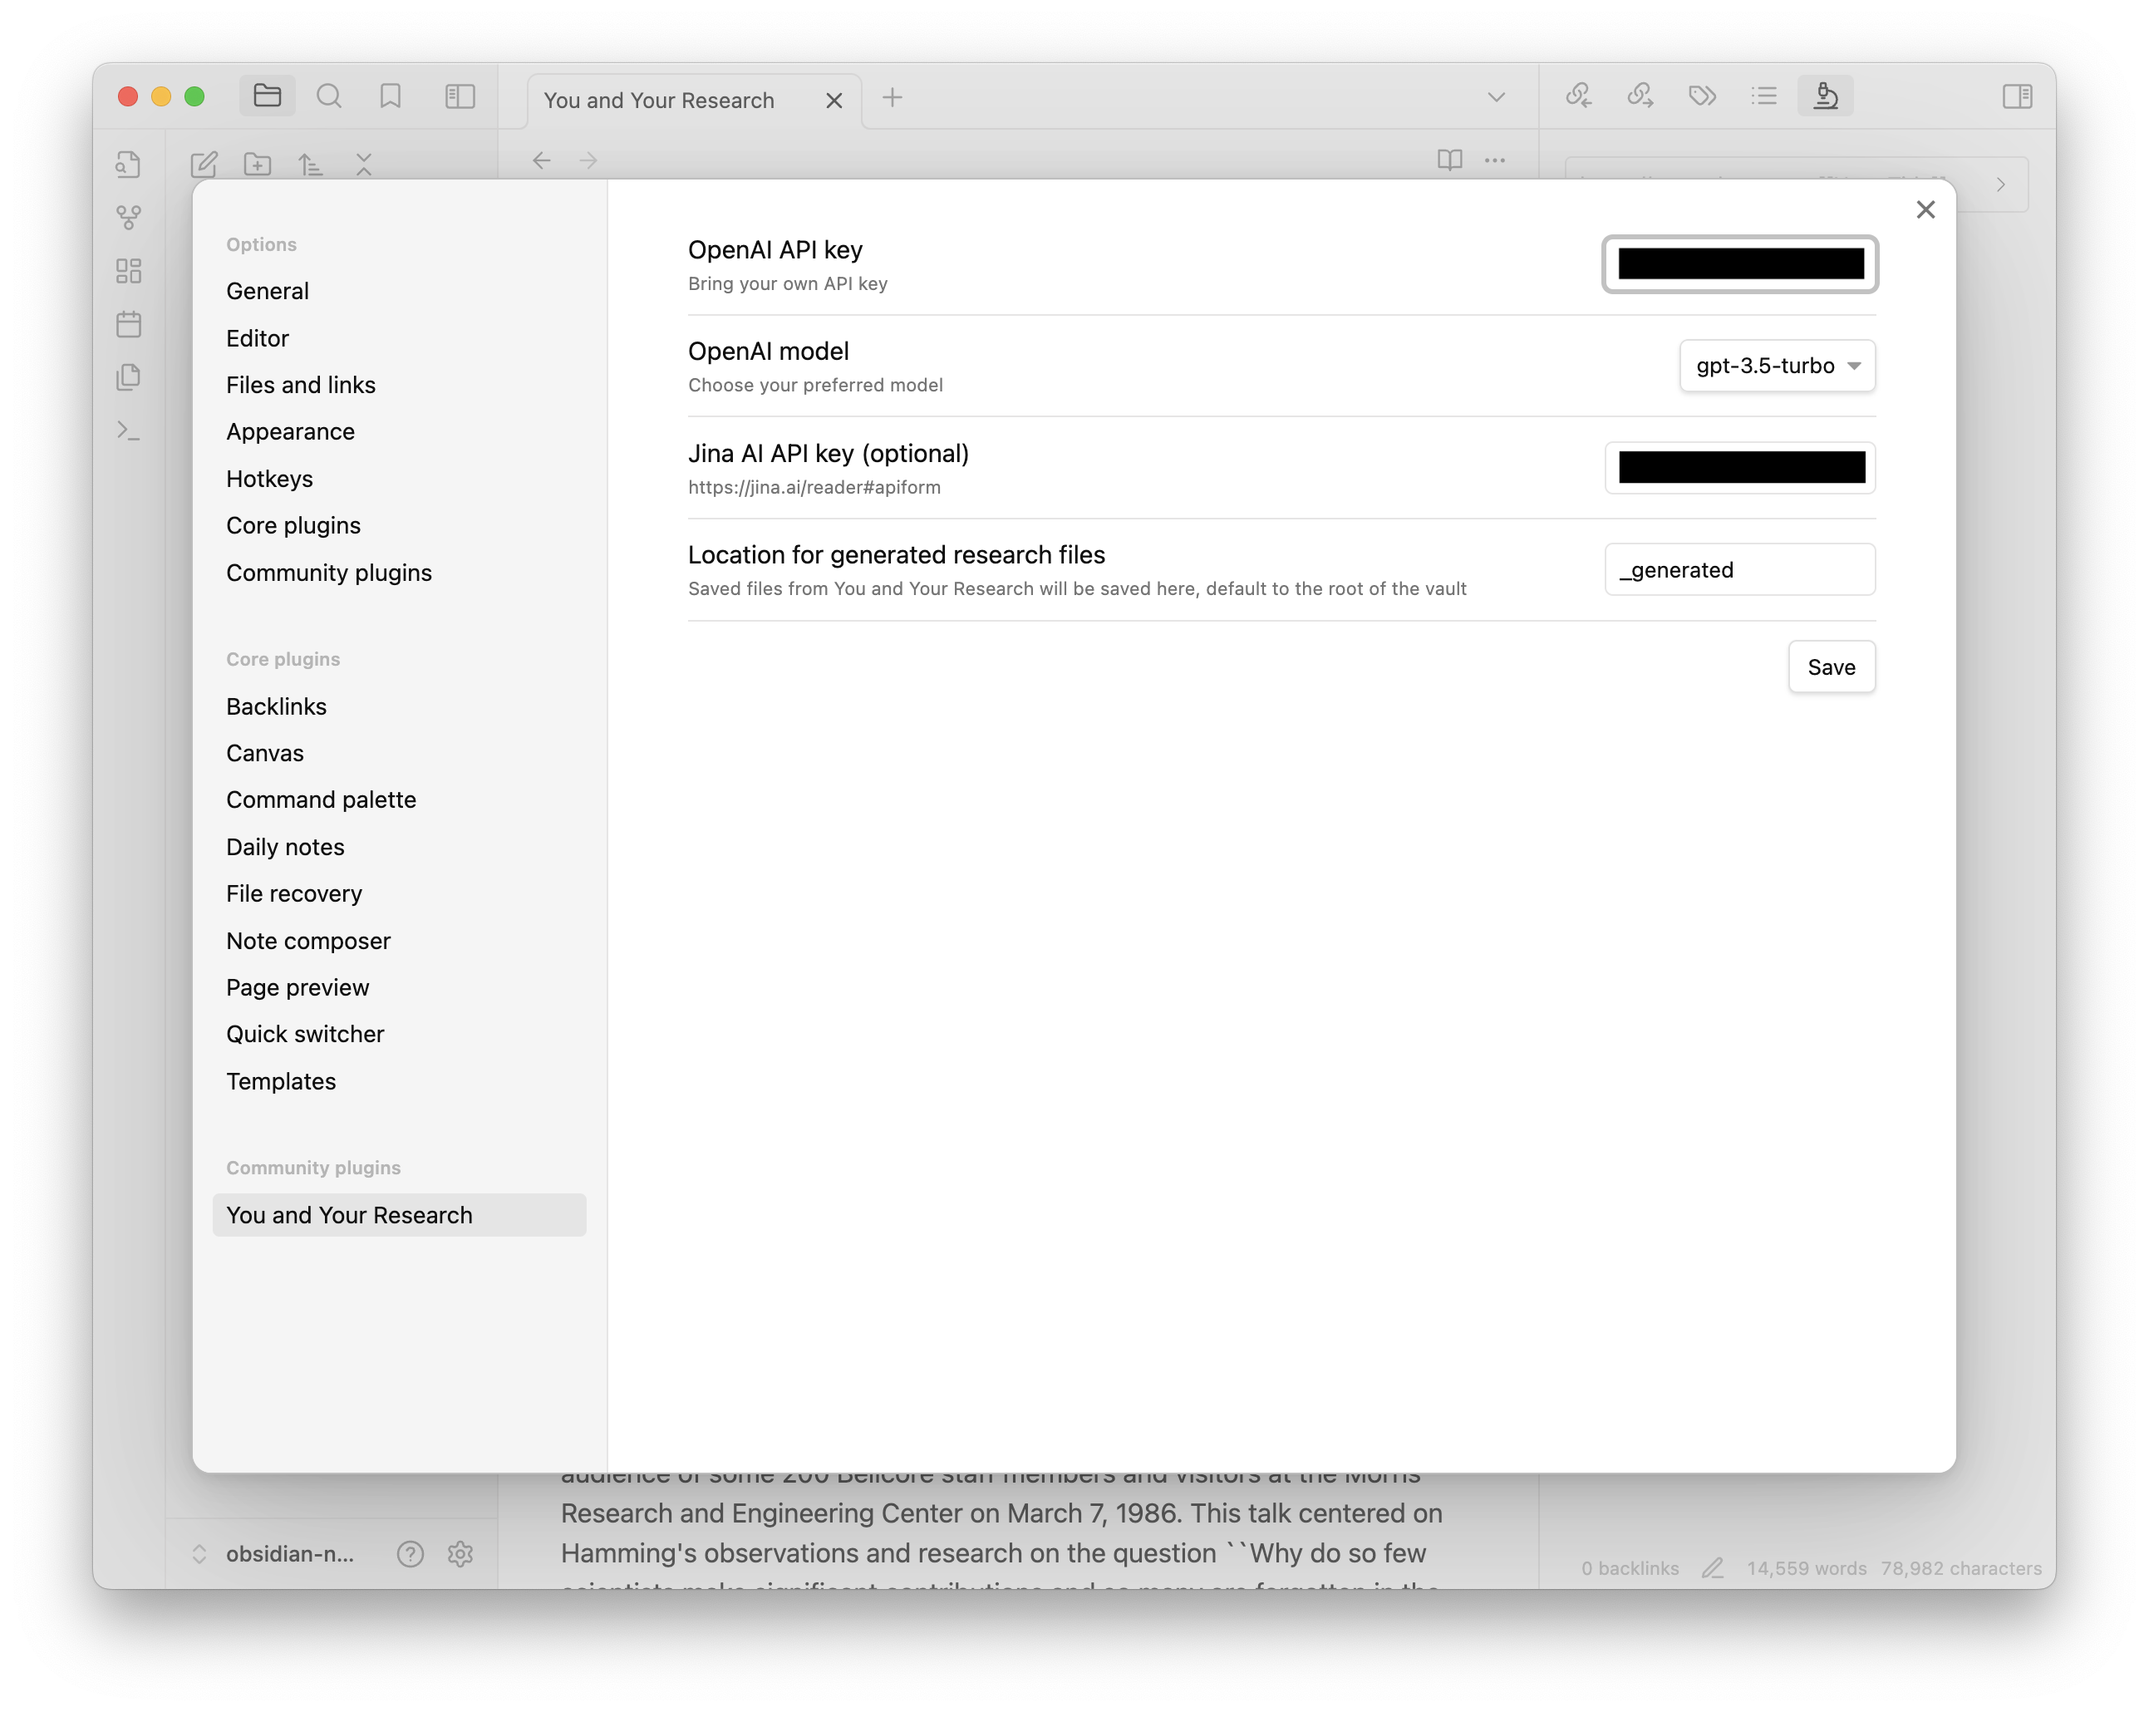
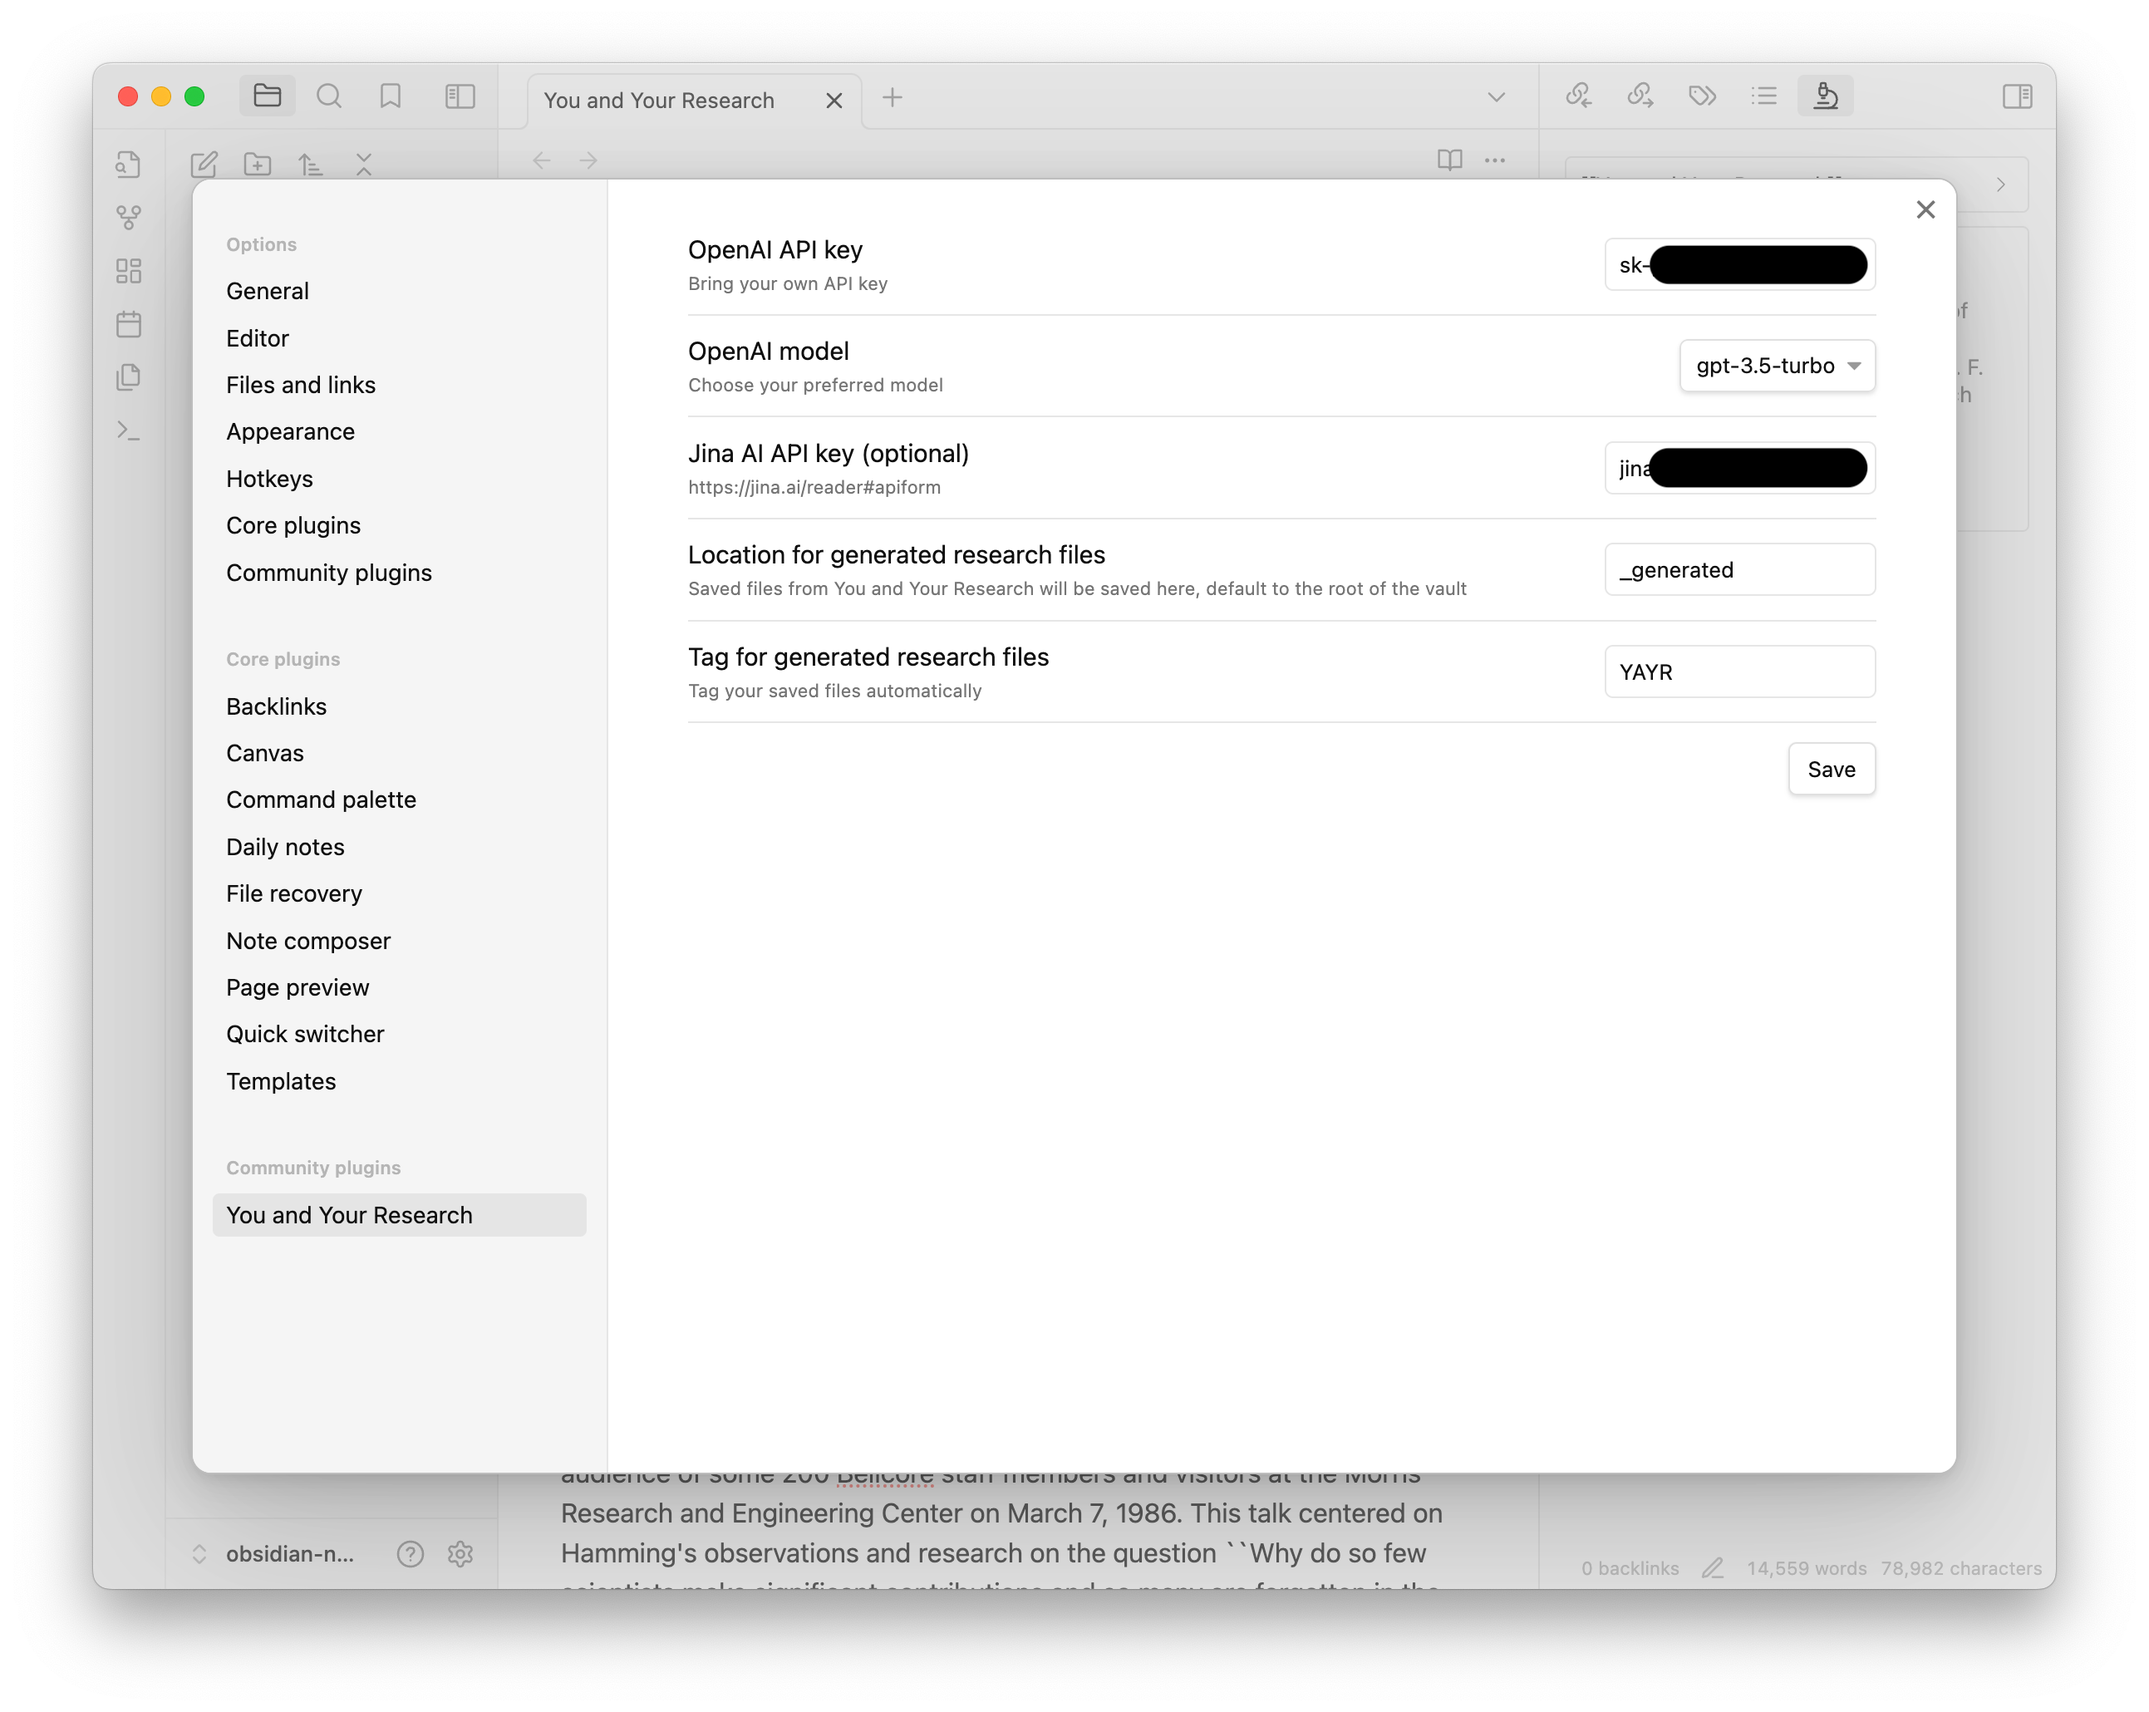
Changed: README.md and the setting screenshot

diff --git a/README.md b/README.md
@@ -20,7 +20,7 @@ You can choose gpt-3.5-turbo or gpt-4o as your model of choice.
 
 **OPTIONAL** The plugin also uses Jina AI to extract the content of the web pages you read. You can also bring your own API key for using Jina AI. You can get it from the [Jina website](https://jina.ai/reader/#apiform). Add it in the plugin settings.
 
-**OPTIONAL** You can also set your preferred location for saved files. The default location will be the root of your vault.
+**OPTIONAL** You can also set your preferred location and tag for saved files. The default location will be the root of your vault.
 
 ![Settings](./assets/Screenshot_Settings.png)
 
